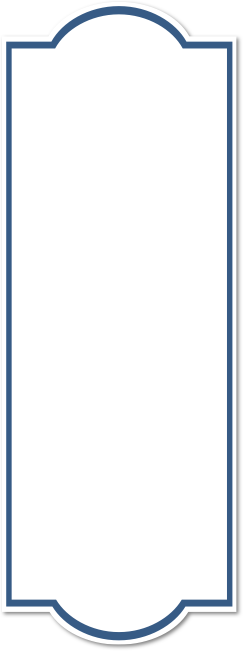
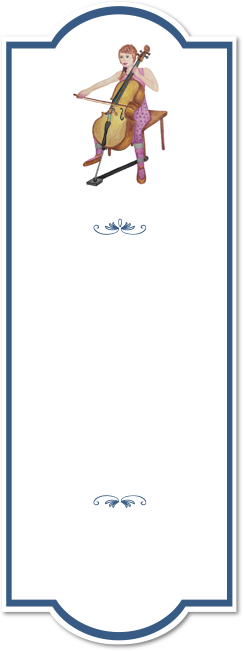
Fix book cover

diff --git a/app/assets/styles/core/_book-components.scss b/app/assets/styles/core/_book-components.scss
@@ -33,7 +33,7 @@ body {
     margin: 40px 0 0 0;
     padding: 0 1%;
     max-width: 75%;
-    width: 10%;
+    width: 152px;
     vertical-align: top;
 }
 
@@ -50,8 +50,8 @@ body {
 .book {
     position: relative;
     margin: 0 auto;
-    width: 100%;
-    height: 80px;
+    width: 152px;
+    height: 112px;
     -webkit-transform-style: preserve-3d;
     transform-style: preserve-3d;
 }
@@ -119,11 +119,14 @@ body {
 .buttons a {
     display: inline-block;
     padding: 0 8px;
-    color: rgba(100, 105, 106, 0.7);
+    /*color: rgba(100, 105, 106, 0.7);*/
     text-transform: uppercase;
     letter-spacing: 1px;
     font-size: 0.65em;
     line-height: 1.5;
+    color: #375b85;
+    text-decoration: none;
+    margin-top: 20px;
 }
 
 .buttons a:first-child:not(:only-child) { border-right: 1px solid rgba(100, 105, 106, 0.3) }
@@ -140,10 +143,10 @@ body {
 }
 
 .bookshelf figcaption h2 {
-    margin: 1em 0 0 0;
+    margin: 20px 0 0 0;
     font-weight: bold;
-    font-size: 18px;
-    /*font-family: "Abril Fatface", serif;*/
+    font-size: 14px;
+    color: #974727;
 }
 
 .bookshelf figcaption h2 span {
@@ -517,20 +520,20 @@ body {
     background-image: url('../graphics/chapters/capitulo_1_3.jpg'); 
 }
 
-.no-csstransforms3d .book[data-book="book-capitulo-1"], .no-js .book[data-book="book-capitulo-1"], .book[data-book="book-capitulo-1"] .front {
-    background-image: url('../graphics/chapters/capitulo_1_1.jpg'); 
+.no-csstransforms3d .book[data-book="book-capitulo-4"], .no-js .book[data-book="book-capitulo-4"], .book[data-book="book-capitulo-4"] .front {
+    background-image: url('../graphics/chapters/capitulo_1_4.jpg'); 
 }
 
-.no-csstransforms3d .book[data-book="book-capitulo-1"], .no-js .book[data-book="book-capitulo-1"], .book[data-book="book-capitulo-1"] .front {
-    background-image: url('../graphics/chapters/capitulo_1_1.jpg'); 
+.no-csstransforms3d .book[data-book="book-capitulo-5"], .no-js .book[data-book="book-capitulo-5"], .book[data-book="book-capitulo-5"] .front {
+    background-image: url('../graphics/chapters/capitulo_1_5.jpg'); 
 }
 
-.no-csstransforms3d .book[data-book="book-capitulo-1"], .no-js .book[data-book="book-capitulo-1"], .book[data-book="book-capitulo-1"] .front {
-    background-image: url('../graphics/chapters/capitulo_1_1.jpg'); 
+.no-csstransforms3d .book[data-book="book-capitulo-6"], .no-js .book[data-book="book-capitulo-6"], .book[data-book="book-capitulo-6"] .front {
+    background-image: url('../graphics/chapters/capitulo_1_6.jpg'); 
 }
 
-.no-csstransforms3d .book[data-book="book-capitulo-1"], .no-js .book[data-book="book-capitulo-1"], .book[data-book="book-capitulo-1"] .front {
-    background-image: url('../graphics/chapters/capitulo_1_1.jpg'); 
+.no-csstransforms3d .book[data-book="book-capitulo-7"], .no-js .book[data-book="book-capitulo-7"], .book[data-book="book-capitulo-7"] .front {
+    background-image: url('../graphics/chapters/capitulo_1_7.jpg'); 
 }
 
 

diff --git a/app/index.html b/app/index.html
@@ -4,8 +4,11 @@ layout: base
 
 
 <div id="book-cover">
-	<div class="book container-wrapper">
-		<h1>Violoncelando com a Maria e a Margarida</h1>
-		<p>Este manual pretende que os seus utilizadores desenvolvam hábitos e métodos de estudo, desenvonvendo nos pupilos um profundo gosto pela música.</p>
+	<div class="container-wrapper">
+		<h1 class="hide">Violoncelando com a Maria e a Margarida por Lydia Pinho</h1>
+		
+		<div class="booklet">
+			<p>Este manual pretende que os seus utilizadores desenvolvam hábitos e métodos de estudo, desenvonvendo nos pupilos um profundo gosto pela música.</p>
+		</div>
 	</div>
 </div>

diff --git a/app/assets/styles/core/_base.scss b/app/assets/styles/core/_base.scss
@@ -14,10 +14,31 @@
 }
 
 #book-cover {
-	.book {
+
+	.container-wrapper {
 		background: url('../graphics/content/capa.png') top left no-repeat;
-		height: 800px;
+		height: 827px;
+		width: 1265px;
+		position: relative;
 	}
+
+	.booklet {
+		background: url('../graphics/content/marcador_capa.png') top left no-repeat;
+		width: 243px;
+		height: 651px;
+		padding: 30px;
+		padding-top: 260px;
+		box-sizing: border-box;
+		text-align: center;
+		position: absolute;
+		left: 180px;
+		top: 50px;
+		color: #4a4a4a;
+	}
+}
+
+.hide {
+	display: none;
 }
 
 

diff --git a/app/_includes/header.html b/app/_includes/header.html
@@ -1,6 +1,6 @@
 <header id="page-header" role="banner">
 	<nav class="page-nav container-wrapper">
-		<h1 id="page-logo"><a href="/index.html">Violoncelando com a Maria e a Margarida</a></h1>
+		<h1 id="page-logo"><a href="/">Violoncelando com a Maria e a Margarida</a></h1>
 
 		<ul class="primary-nav">
 			<li><a href="/sessoes">Sessões</a></li>
